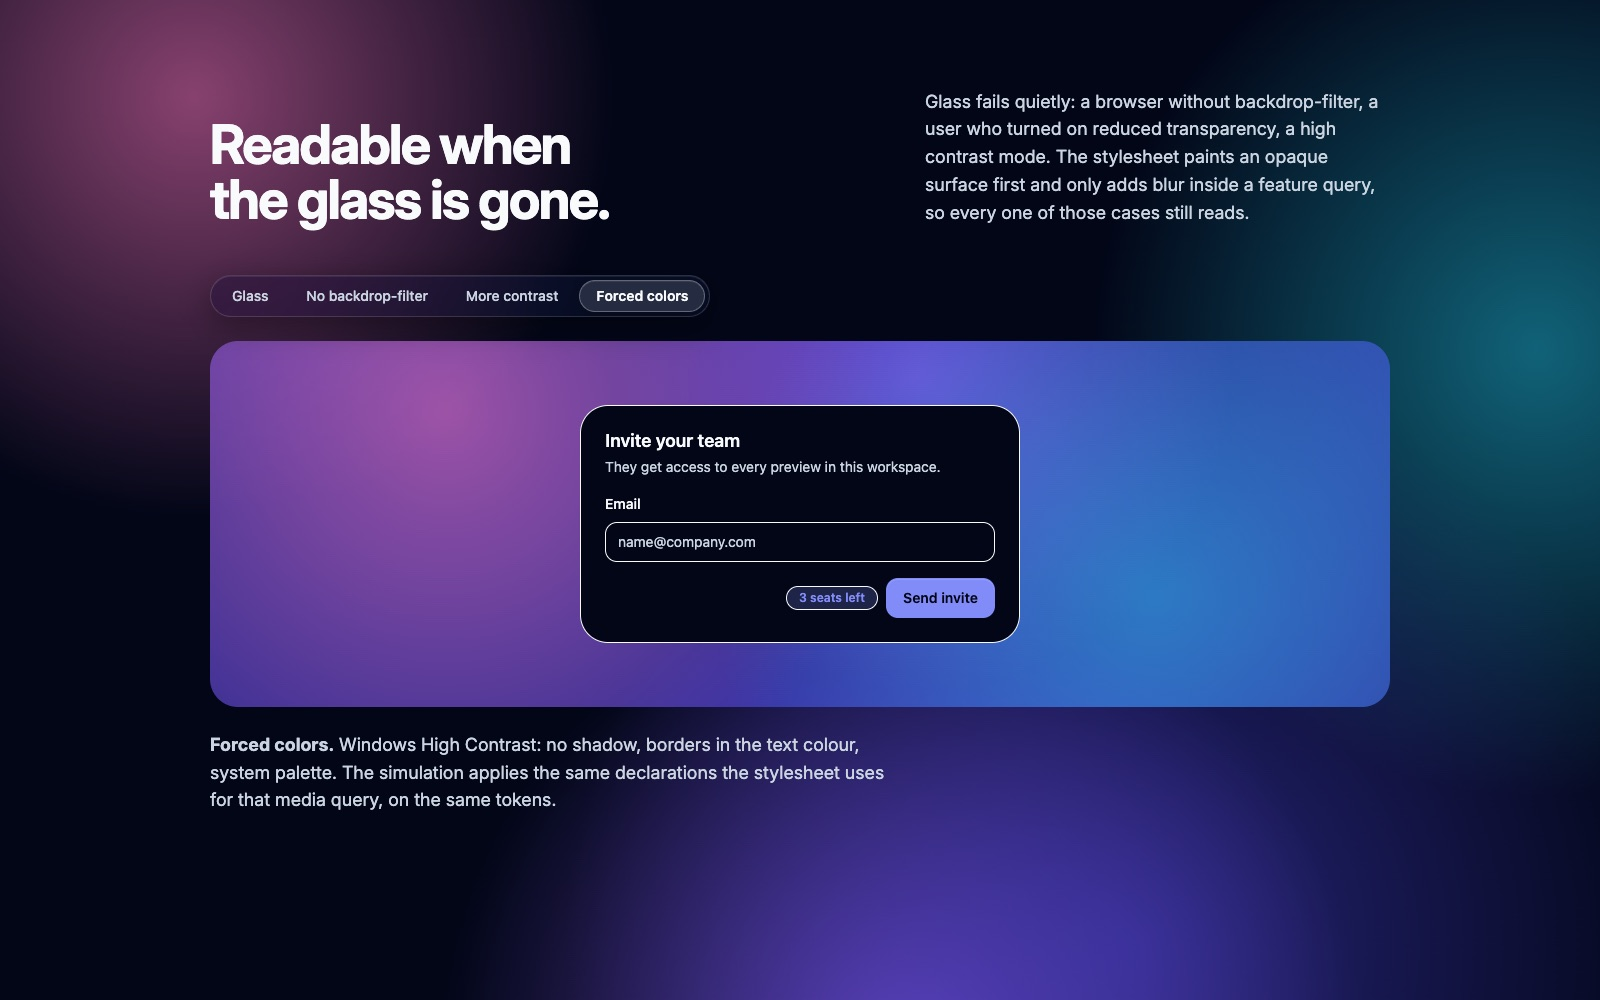
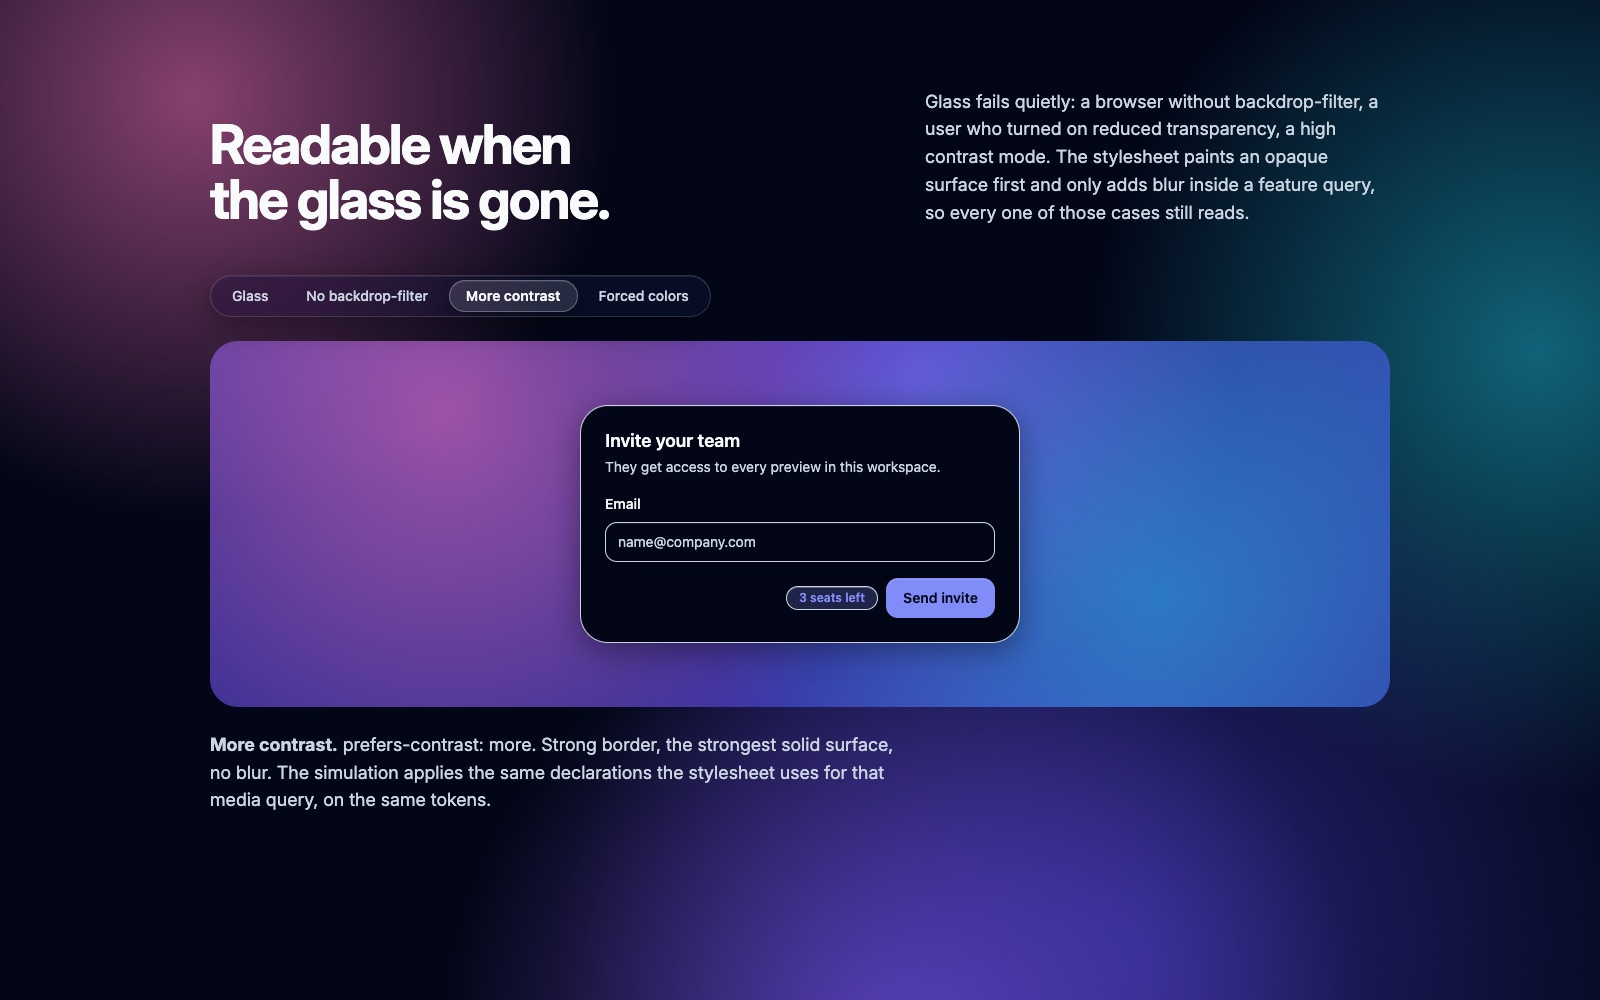
Swap glass-ds slide 3 for the More contrast fallback
The Forced colors tab of the site's simulator only restyles the glass
surface and leaves the button, badge and field in their own colours,
so the frame showed something no high-contrast user would see. The
More contrast tab renders what its caption says, so slide 3 is that
capture instead.

Changed region(s): [[0.3438, 0.434, 0.6562, 0.682], [0.125, 0.744, 0.5625, 0.806], [0.2812, 0.279, 0.4375, 0.31]]

diff --git a/components/projects.ts b/components/projects.ts
@@ -178,7 +178,7 @@ const kiwiimenuShots: Shot[] = [
 const glassdsShots: Shot[] = [
   { src: "/projects/glassds-1.jpg", alt: "The showcase site’s hero in the dark theme: the headline Glass that holds up. beside a Ship a preview card made of the real components, with a project field, a region select, an instances slider, a password switch, and a Deploy button, over a blurred magenta and teal backdrop.", caption: "Glass that holds up" },
   { src: "/projects/glassds-2.jpg", alt: "Readable when the glass is gone: an Invite your team card shown as translucent glass over a vivid gradient, with tabs for Glass, No backdrop-filter, More contrast, and Forced colors.", caption: "The glass look" },
-  { src: "/projects/glassds-3.jpg", alt: "The same Invite your team card with the Forced colors tab selected: an opaque black surface with light borders and no shadow, as Windows High Contrast would render it.", caption: "Forced colors fallback" },
+  { src: "/projects/glassds-3.jpg", alt: "The same Invite your team card with the More contrast tab selected: the strongest opaque surface with a strong border and no blur, as prefers-contrast: more renders it.", caption: "More contrast fallback" },
   { src: "/projects/glassds-4.jpg", alt: "Thirty components, built on the platform: the Forms tab, with a Create a project card holding a required name field, a repository field showing an error, a framework select, a launch date picker, and a description, beside a Preferences card of radios, checkboxes, and switches.", caption: "Forms" },
   { src: "/projects/glassds-5.jpg", alt: "The Data tab: a Members table of four people with avatars, roles, Active and Invited badges, and keyboard shortcut keys, a caption for screen readers, and pagination below.", caption: "Data" },
   { src: "/projects/glassds-6.jpg", alt: "The Feedback tab: success, warning, danger, and neutral alerts on the left, and a Progress and waiting card with storage and bandwidth bars, an indeterminate bar, spinners, and skeleton lines on the right.", caption: "Feedback" },

diff --git a/public/projects/README.md b/public/projects/README.md
@@ -29,7 +29,7 @@ Current files:
   555 phone numbers.
 - `glassds-1.jpg` … `glassds-11.jpg`: glass-ds (unreleased, the danteberishaj/glass-ds repository, no public link),
   captured on 2026-10-29 at 1600×1000 in headless Chrome with the dark colour scheme emulated: nine from the showcase
-  site (`npm run site`): the hero, the fallback simulator on its Glass and Forced colors tabs, the Forms, Data, and
+  site (`npm run site`): the hero, the fallback simulator on its Glass and More contrast tabs, the Forms, Data, and
   Feedback tabs of the component showcase, the Delete project dialog open over the page, the theming section, and the
   springs section; then two from Storybook (`npm run storybook`, theme global set to dark): the AppShell Dashboard
   story and the DatePicker Pick a date story with its calendar open. Names and figures in the demos are the site's
